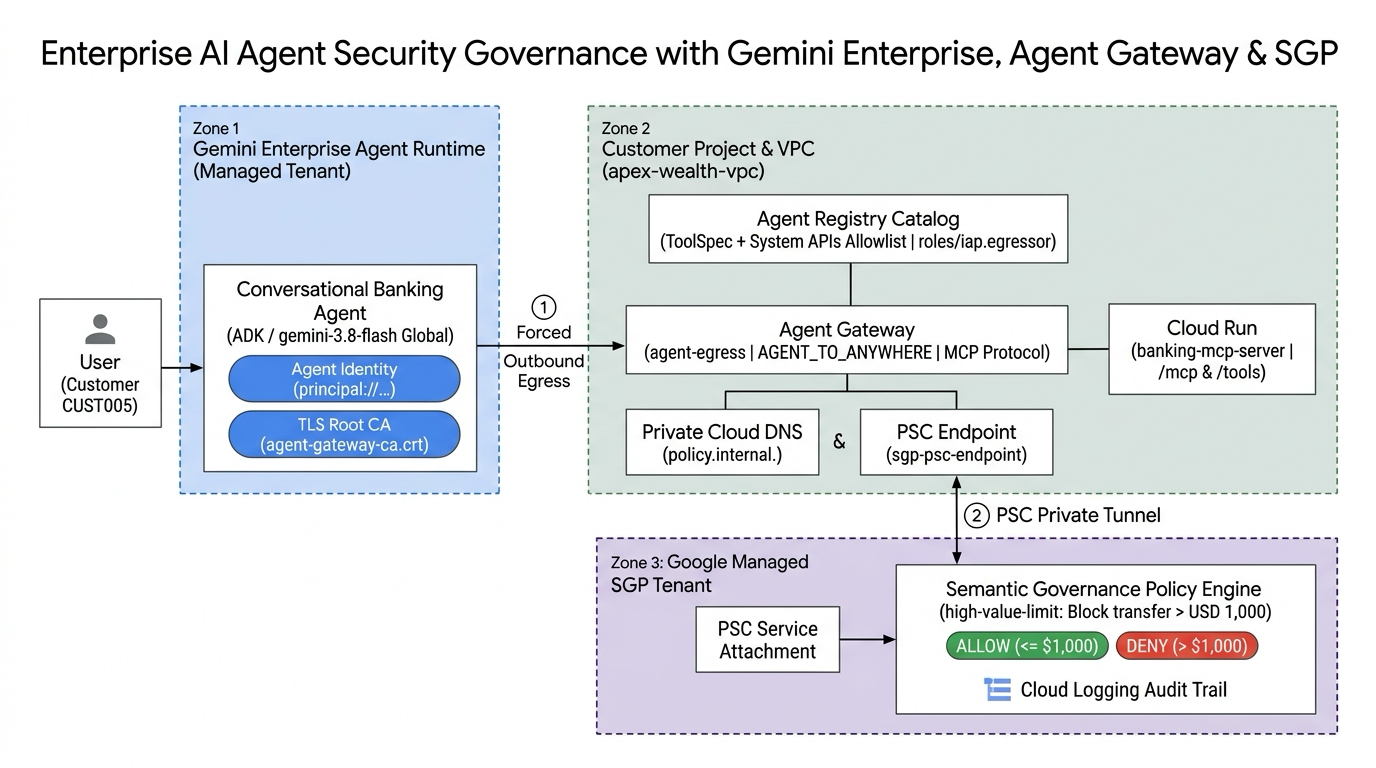
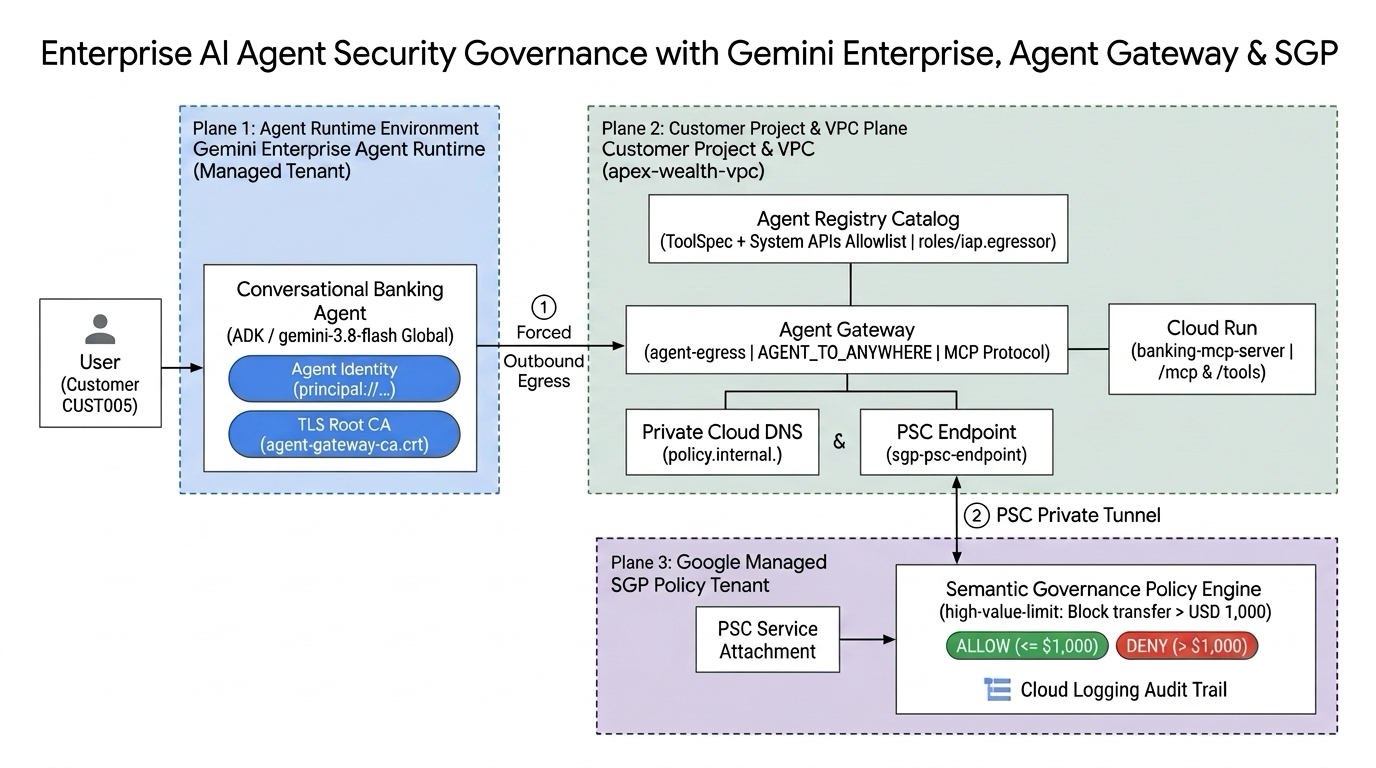
Docs: Replace Zone 1/2/3 with Plane 1/2/3 in architecture diagram and text to avoid GCP Availability Zone confusion

Changed region(s): [[0.4375, 0.7188, 0.5938, 0.7812], [0.4375, 0.1562, 0.6562, 0.1875], [0.125, 0.1562, 0.3438, 0.1875]]

diff --git a/codelab-ko.html b/codelab-ko.html
@@ -1006,8 +1006,8 @@
 
         <!-- Graphical Architecture Diagram 0 -->
         <div class="diagram-box">
-          <img src="img/00-overall-architecture.png" alt="전체 제로 트러스트 거버넌스 아키텍처 (3-Zone)" loading="lazy" />
-          <div class="diagram-caption">[그림 0] Gemini Enterprise 에이전트와 Agent Gateway · SGP 기반 금융 보안 통제 아키텍처 (Zone 1 ~ Zone 3)</div>
+          <img src="img/00-overall-architecture.png" alt="전체 제로 트러스트 거버넌스 아키텍처 (3-Plane)" loading="lazy" />
+          <div class="diagram-caption">[그림 0] Gemini Enterprise 에이전트와 Agent Gateway · SGP 기반 금융 보안 통제 아키텍처 (Plane 1 ~ Plane 3)</div>
         </div>
 
         <div class="callout callout-success">
@@ -1033,7 +1033,7 @@
               <tr>
                 <td><span class="pill pill-blue">Step 1</span></td>
                 <td>-</td>
-                <td>에이펙스 자산운용 시나리오 및 3-Zone 아키텍처 이해</td>
+                <td>에이펙스 자산운용 시나리오 및 3-Plane 아키텍처 이해</td>
                 <td><strong>5분</strong></td>
                 <td>네트워크 경계 기반 정책 통제 구조 파악</td>
               </tr>
@@ -2033,8 +2033,8 @@ payload = {
         </div>
 
         <div class="diagram-box">
-          <img src="img/00-overall-architecture.png" alt="전체 제로 트러스트 거버넌스 아키텍처 (3-Zone)" loading="lazy" />
-          <div class="diagram-caption">[그림 0] 전체 실습 아키텍처: Gemini Enterprise 에이전트 · Agent Gateway · SGP · Cloud Run MCP</div>
+          <img src="img/00-overall-architecture.png" alt="전체 제로 트러스트 거버넌스 아키텍처 (3-Plane)" loading="lazy" />
+          <div class="diagram-caption">[그림 0] 전체 실습 아키텍처: Gemini Enterprise 에이전트 · Agent Gateway · SGP · Cloud Run MCP (Plane 1 ~ Plane 3)</div>
         </div>
 
         <h2 class="section-heading">1. Qwiklabs 랩 시작 및 시크릿 창 로그인</h2>

diff --git a/codelab-web/codelab-ko.html b/codelab-web/codelab-ko.html
@@ -1006,8 +1006,8 @@
 
         <!-- Graphical Architecture Diagram 0 -->
         <div class="diagram-box">
-          <img src="img/00-overall-architecture.png" alt="전체 제로 트러스트 거버넌스 아키텍처 (3-Zone)" loading="lazy" />
-          <div class="diagram-caption">[그림 0] Gemini Enterprise 에이전트와 Agent Gateway · SGP 기반 금융 보안 통제 아키텍처 (Zone 1 ~ Zone 3)</div>
+          <img src="img/00-overall-architecture.png" alt="전체 제로 트러스트 거버넌스 아키텍처 (3-Plane)" loading="lazy" />
+          <div class="diagram-caption">[그림 0] Gemini Enterprise 에이전트와 Agent Gateway · SGP 기반 금융 보안 통제 아키텍처 (Plane 1 ~ Plane 3)</div>
         </div>
 
         <div class="callout callout-success">
@@ -1033,7 +1033,7 @@
               <tr>
                 <td><span class="pill pill-blue">Step 1</span></td>
                 <td>-</td>
-                <td>에이펙스 자산운용 시나리오 및 3-Zone 아키텍처 이해</td>
+                <td>에이펙스 자산운용 시나리오 및 3-Plane 아키텍처 이해</td>
                 <td><strong>5분</strong></td>
                 <td>네트워크 경계 기반 정책 통제 구조 파악</td>
               </tr>
@@ -2033,8 +2033,8 @@ payload = {
         </div>
 
         <div class="diagram-box">
-          <img src="img/00-overall-architecture.png" alt="전체 제로 트러스트 거버넌스 아키텍처 (3-Zone)" loading="lazy" />
-          <div class="diagram-caption">[그림 0] 전체 실습 아키텍처: Gemini Enterprise 에이전트 · Agent Gateway · SGP · Cloud Run MCP</div>
+          <img src="img/00-overall-architecture.png" alt="전체 제로 트러스트 거버넌스 아키텍처 (3-Plane)" loading="lazy" />
+          <div class="diagram-caption">[그림 0] 전체 실습 아키텍처: Gemini Enterprise 에이전트 · Agent Gateway · SGP · Cloud Run MCP (Plane 1 ~ Plane 3)</div>
         </div>
 
         <h2 class="section-heading">1. Qwiklabs 랩 시작 및 시크릿 창 로그인</h2>

diff --git a/codelab-web/index.html b/codelab-web/index.html
@@ -1006,8 +1006,8 @@
 
         <!-- Graphical Architecture Diagram 0 -->
         <div class="diagram-box">
-          <img src="img/00-overall-architecture.png" alt="전체 제로 트러스트 거버넌스 아키텍처 (3-Zone)" loading="lazy" />
-          <div class="diagram-caption">[그림 0] Gemini Enterprise 에이전트와 Agent Gateway · SGP 기반 금융 보안 통제 아키텍처 (Zone 1 ~ Zone 3)</div>
+          <img src="img/00-overall-architecture.png" alt="전체 제로 트러스트 거버넌스 아키텍처 (3-Plane)" loading="lazy" />
+          <div class="diagram-caption">[그림 0] Gemini Enterprise 에이전트와 Agent Gateway · SGP 기반 금융 보안 통제 아키텍처 (Plane 1 ~ Plane 3)</div>
         </div>
 
         <div class="callout callout-success">
@@ -1033,7 +1033,7 @@
               <tr>
                 <td><span class="pill pill-blue">Step 1</span></td>
                 <td>-</td>
-                <td>에이펙스 자산운용 시나리오 및 3-Zone 아키텍처 이해</td>
+                <td>에이펙스 자산운용 시나리오 및 3-Plane 아키텍처 이해</td>
                 <td><strong>5분</strong></td>
                 <td>네트워크 경계 기반 정책 통제 구조 파악</td>
               </tr>
@@ -2033,8 +2033,8 @@ payload = {
         </div>
 
         <div class="diagram-box">
-          <img src="img/00-overall-architecture.png" alt="전체 제로 트러스트 거버넌스 아키텍처 (3-Zone)" loading="lazy" />
-          <div class="diagram-caption">[그림 0] 전체 실습 아키텍처: Gemini Enterprise 에이전트 · Agent Gateway · SGP · Cloud Run MCP</div>
+          <img src="img/00-overall-architecture.png" alt="전체 제로 트러스트 거버넌스 아키텍처 (3-Plane)" loading="lazy" />
+          <div class="diagram-caption">[그림 0] 전체 실습 아키텍처: Gemini Enterprise 에이전트 · Agent Gateway · SGP · Cloud Run MCP (Plane 1 ~ Plane 3)</div>
         </div>
 
         <h2 class="section-heading">1. Qwiklabs 랩 시작 및 시크릿 창 로그인</h2>

diff --git a/index.html b/index.html
@@ -1006,8 +1006,8 @@
 
         <!-- Graphical Architecture Diagram 0 -->
         <div class="diagram-box">
-          <img src="img/00-overall-architecture.png" alt="전체 제로 트러스트 거버넌스 아키텍처 (3-Zone)" loading="lazy" />
-          <div class="diagram-caption">[그림 0] Gemini Enterprise 에이전트와 Agent Gateway · SGP 기반 금융 보안 통제 아키텍처 (Zone 1 ~ Zone 3)</div>
+          <img src="img/00-overall-architecture.png" alt="전체 제로 트러스트 거버넌스 아키텍처 (3-Plane)" loading="lazy" />
+          <div class="diagram-caption">[그림 0] Gemini Enterprise 에이전트와 Agent Gateway · SGP 기반 금융 보안 통제 아키텍처 (Plane 1 ~ Plane 3)</div>
         </div>
 
         <div class="callout callout-success">
@@ -1033,7 +1033,7 @@
               <tr>
                 <td><span class="pill pill-blue">Step 1</span></td>
                 <td>-</td>
-                <td>에이펙스 자산운용 시나리오 및 3-Zone 아키텍처 이해</td>
+                <td>에이펙스 자산운용 시나리오 및 3-Plane 아키텍처 이해</td>
                 <td><strong>5분</strong></td>
                 <td>네트워크 경계 기반 정책 통제 구조 파악</td>
               </tr>
@@ -2033,8 +2033,8 @@ payload = {
         </div>
 
         <div class="diagram-box">
-          <img src="img/00-overall-architecture.png" alt="전체 제로 트러스트 거버넌스 아키텍처 (3-Zone)" loading="lazy" />
-          <div class="diagram-caption">[그림 0] 전체 실습 아키텍처: Gemini Enterprise 에이전트 · Agent Gateway · SGP · Cloud Run MCP</div>
+          <img src="img/00-overall-architecture.png" alt="전체 제로 트러스트 거버넌스 아키텍처 (3-Plane)" loading="lazy" />
+          <div class="diagram-caption">[그림 0] 전체 실습 아키텍처: Gemini Enterprise 에이전트 · Agent Gateway · SGP · Cloud Run MCP (Plane 1 ~ Plane 3)</div>
         </div>
 
         <h2 class="section-heading">1. Qwiklabs 랩 시작 및 시크릿 창 로그인</h2>

diff --git a/QWIKLABS_INSTRUCTIONS_KO.md b/QWIKLABS_INSTRUCTIONS_KO.md
@@ -10,7 +10,7 @@
 
 ### 전체 아키텍처 및 트래픽 흐름도
 
-아래 아키텍처 다이어그램은 이 실습에서 구축할 3개의 테넌트/네트워크 영역(Zone 1: Gemini Enterprise 에이전트 런타임 테넌트, Zone 2: 고객 VPC 및 Agent Registry 컨트롤 플레인, Zone 3: Google 관리형 SGP 테넌트) 간의 전체 상호작용과 트래픽 흐름을 보여줍니다.
+아래 아키텍처 다이어그램은 이 실습에서 구축할 3개의 아키텍처 플레인 및 테넌트 환경(**Plane 1**: Gemini Enterprise 에이전트 런타임 환경, **Plane 2**: 고객 프로젝트 VPC 및 제어 플레인, **Plane 3**: Google 관리형 SGP 정책 평가 테넌트) 간의 전체 상호작용과 트래픽 흐름을 보여줍니다.
 
 ![Enterprise AI Agent Security Governance Architecture](img/00-overall-architecture.png)
 

diff --git a/qwiklabs-bundle/apex-agent-gateway-sgp/instructions/en.md b/qwiklabs-bundle/apex-agent-gateway-sgp/instructions/en.md
@@ -10,7 +10,7 @@
 
 ### 전체 아키텍처 및 트래픽 흐름도
 
-아래 아키텍처 다이어그램은 이 실습에서 구축할 3개의 테넌트/네트워크 영역(Zone 1: Gemini Enterprise 에이전트 런타임 테넌트, Zone 2: 고객 VPC 및 Agent Registry 컨트롤 플레인, Zone 3: Google 관리형 SGP 테넌트) 간의 전체 상호작용과 트래픽 흐름을 보여줍니다.
+아래 아키텍처 다이어그램은 이 실습에서 구축할 3개의 아키텍처 플레인 및 테넌트 환경(**Plane 1**: Gemini Enterprise 에이전트 런타임 환경, **Plane 2**: 고객 프로젝트 VPC 및 제어 플레인, **Plane 3**: Google 관리형 SGP 정책 평가 테넌트) 간의 전체 상호작용과 트래픽 흐름을 보여줍니다.
 
 ![Enterprise AI Agent Security Governance Architecture](img/00-overall-architecture.png)
 
